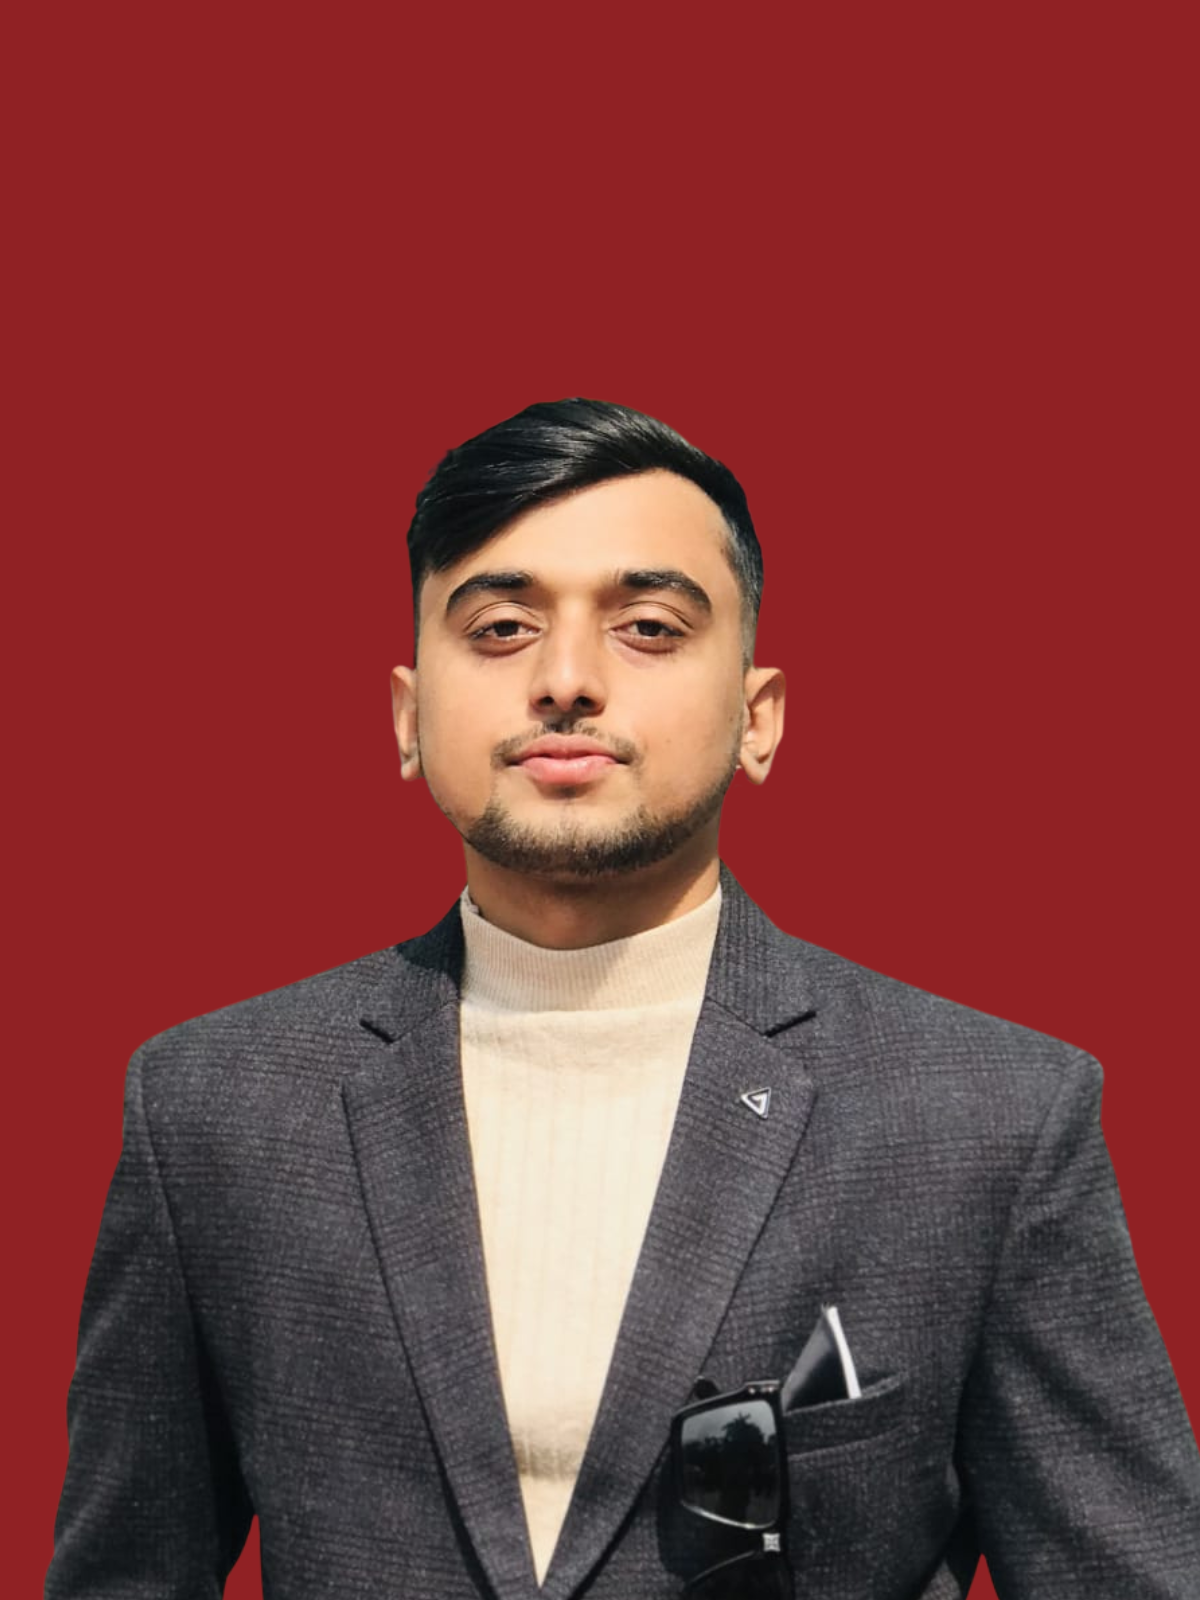
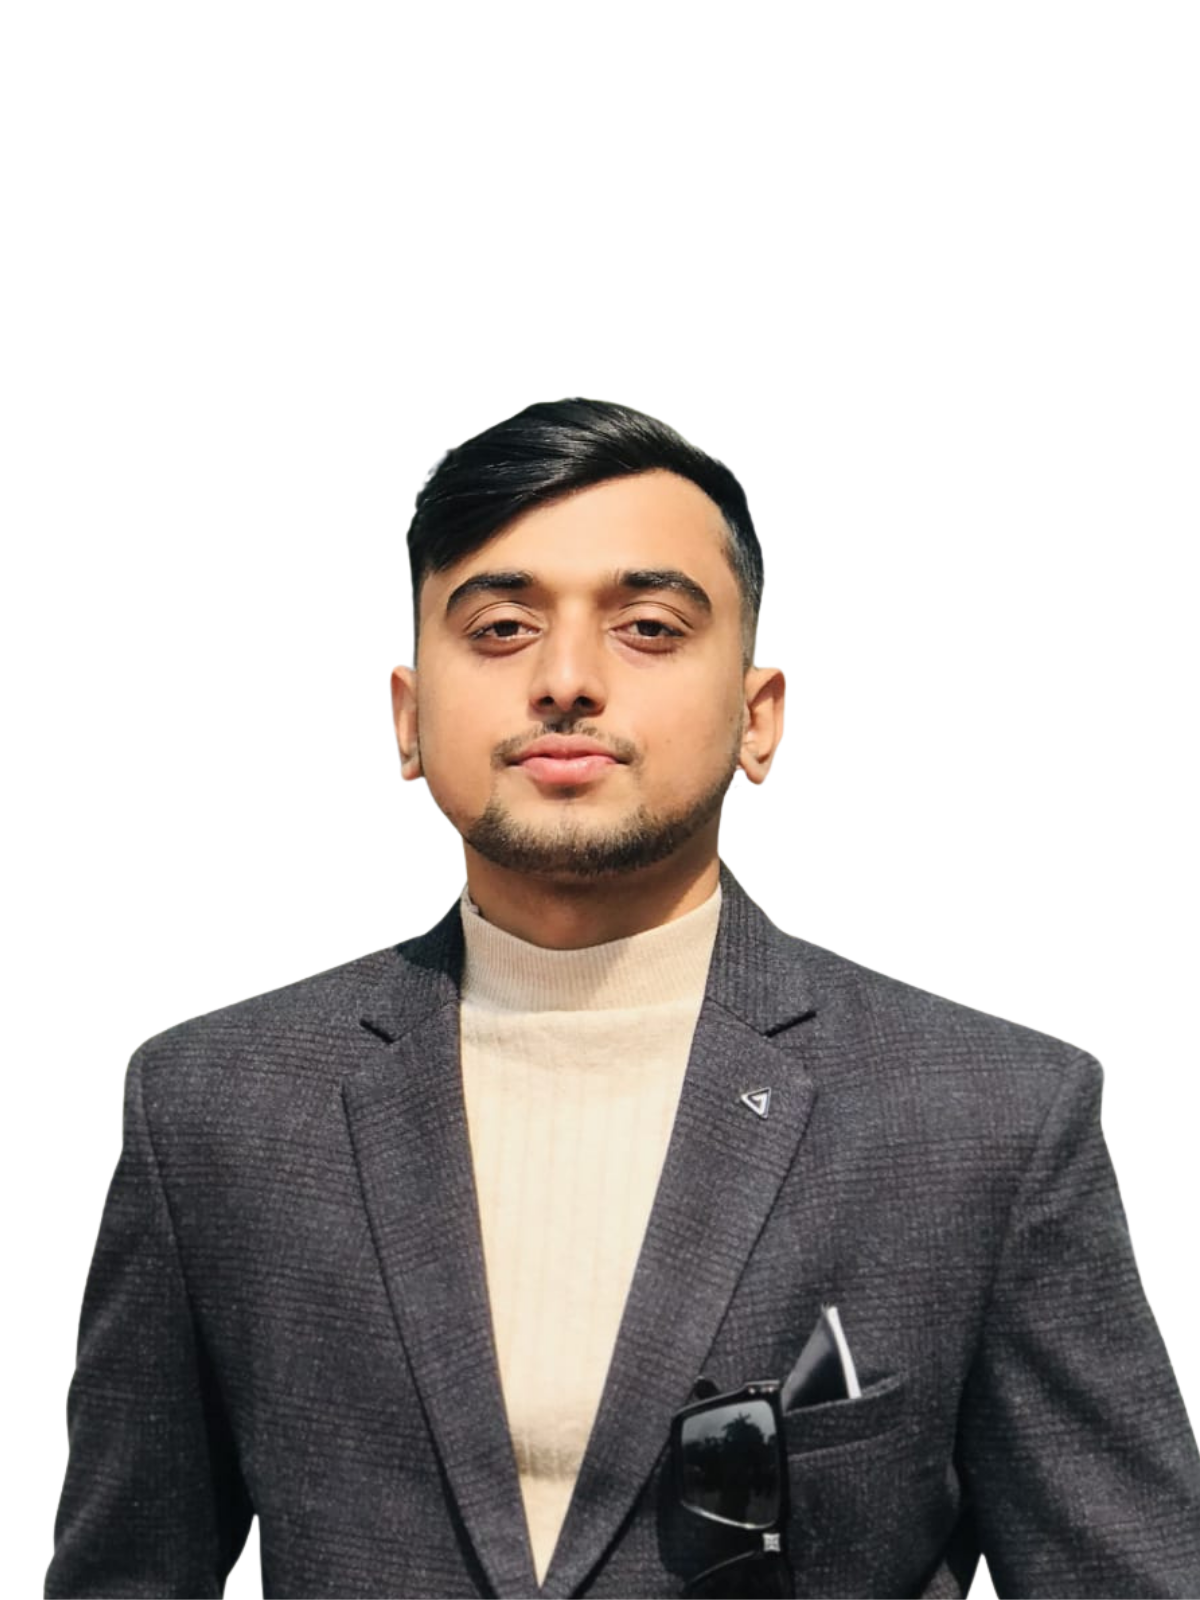
updated mobile view design

diff --git a/src/Pages/Index.jsx b/src/Pages/Index.jsx
@@ -4,13 +4,14 @@ import { easeInOut, motion } from 'motion/react'
 function Index() {
   return (
     <>
-        <div className='flex w-full h-full'>
-          <div className='w-1/2 text-white flex justify-center items-center'>
-          <div className='flex flex-col gap-14'>
+    //larger screen(desktop/laptop)
+        <div className='w-full h- hidden sm:flex'>
+          <div className='w-1/2 text-white hidden justify-center items-center sm:flex'>
+          <div className='flex flex-col gap-14 mt-10'>
             <div className='text-4xl font-bold'>
               Hi, I am
             </div>
-            <div className='flex flex-col gap-4'>
+            <div className='flex-col gap-4 '>
               <div className='text-6xl font-bold'>
               Prasanna Niroula<motion.span animate={{opacity:[0,1,0]}} transition={{repeat:Infinity, duration:0.8, ease:"linear"}}>|</motion.span>
               </div>
@@ -21,10 +22,32 @@ function Index() {
            
           </div>
           </div>
-        <div className="w-1/2 bg-[#902124] text-white [clip-path:polygon(15%_0,100%_0,100%_100%,0%_100%)] flex items-center justify-center" >
-            <motion.img src='front.png' className='h-[730px] object-contain' initial={{ y: "calc(100vw - 50%)" }} animate={{y:"calc(0%)"}} transition={{duration:1,delay:0.5, ease:easeInOut}}/>
+        <div className="w-1/2 bg-[#902124] flex justify-center sm:items-center text-white sm:[clip-path:polygon(15%_0,100%_0,100%_100%,0%_100%)]" >
+            <motion.img src='front.png' className='h-[480px] sm:h-[700px] md:h-[700px] object-contain' initial={{ y: "calc(100vw -50%)" }} animate={{y:"calc(0%)"}} transition={{duration:1,delay:0.5, ease:easeInOut}}/>
         </div>
         </div>
+    //smaller screen(mobile devices)
+    <div className='w-full h-screen lg:hidden md:hidden sm:hidden relative'>
+    <div className="w-full  bg-[#902124] flex justify-center text-white" >
+            <motion.img src='front.png' className='h-[500px] object-contain ' initial={{ y: "calc(100vw -50%)" }} animate={{y:"calc(-36%)"}} transition={{duration:1,delay:0.5, ease:easeInOut}}/>
+        </div>
+        <div className='w-full absolute h-130 bottom-0 text-black [clip-path:polygon(100%_0,100%_0,100%_100%,-700%_100%)] bg-black flex justify-center items-center'>
+        <div className='flex flex-col gap-04 text-white justify-center items-center'>
+            <div className='text-4xl font-bold'>
+              Hi, I am
+            </div>
+            <div className='flex flex-col gap-4 text-center'>
+              <div className='text-6xl font-bold'>
+              Prasanna Niroula<motion.span animate={{opacity:[0,1,0]}} transition={{repeat:Infinity, duration:0.8, ease:"linear"}}>|</motion.span>
+              </div>
+              <div className='text-xl text-center'>
+              Full-stack developer/AI enthusiast
+            </div>
+            </div>
+           
+          </div>
+        </div>
+    </div>
     </>
   )
 }

diff --git a/src/Components/NavBar.jsx b/src/Components/NavBar.jsx
@@ -1,6 +1,7 @@
 import React from 'react'
 import { useState } from 'react'
 import { motion } from 'motion/react'
+import { VscThreeBars } from "react-icons/vsc";
 
 function NavBar() {
   const navOptions = [
@@ -9,6 +10,7 @@ function NavBar() {
     {id:"skills",label:"Skills"},
     {id:"projects",label:"Projects"},
   ]
+  const [isMenuOpen, setIsMenuOpen] = useState(false);
   const [link,activeLink]= useState("Home")
   return (
     <>
@@ -18,7 +20,7 @@ function NavBar() {
     ease: "easeInOut" 
   }}>
         <h1 className='text-2xl font-bold text-white'>Portfolio</h1>
-        <div className='text-white flex gap-18'>
+        <div className='text-white gap-2 hidden sm:flex sm:gap-10'>
            {navOptions.map((option)=>(
             <div key={option.id}
             onClick={()=>activeLink(option.id)}
@@ -28,6 +30,9 @@ function NavBar() {
             > {option.label}</div>
            ))}
            <button className='bg-white rounded-2xl px-4 py-1 text-black'>Contact me</button>
+        </div>
+        <div className='text-white text-2xl lg:hidden md:hidden sm:hidden'>
+        <VscThreeBars  />
         </div>
     </motion.div>
     </>

diff --git a/src/App.jsx b/src/App.jsx
@@ -5,9 +5,12 @@ import Index from './Pages/Index'
 function App() {
   return (
     <>
-    <div>
+    <div className='flex flex-col'>
     <NavBar/>
+    <div className='flex-1'>
     <Index/>
+    </div>
+   
     </div>
     </>
   )

diff --git a/src/index.css b/src/index.css
@@ -9,3 +9,8 @@ body{
   background-color: black;
   font-family:  "PT Sans";
 }
+@media screen and (max-width:650px) {
+  body{
+  margin: 0px 10px;
+  }
+}
